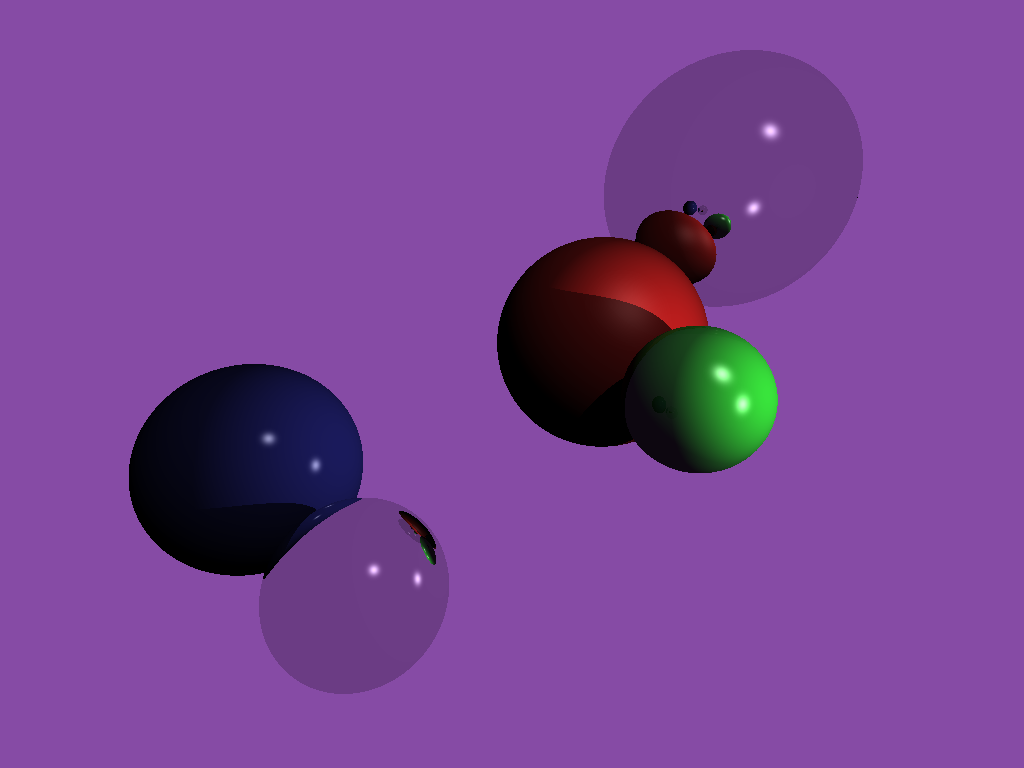
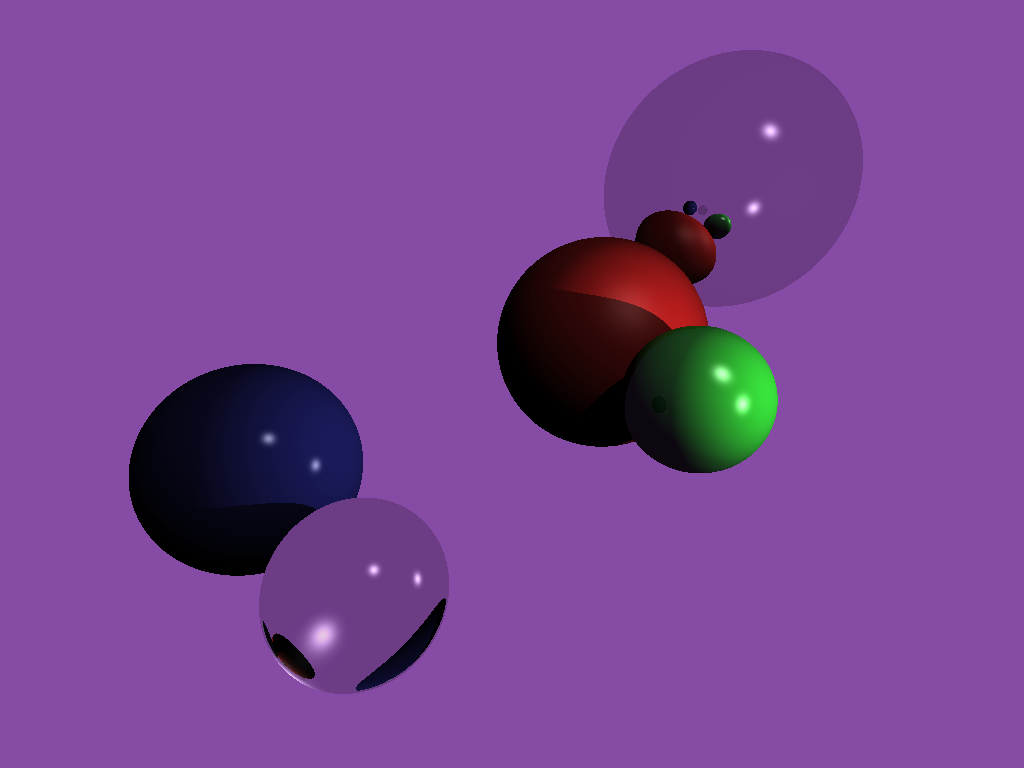
Implement refraction

diff --git a/src/lib.rs b/src/lib.rs
@@ -3,7 +3,7 @@ mod ray_tracing;
 mod scene;
 mod vector_math;
 
-use scene::Scene;
+use scene::{Scene, Sphere};
 
 use crate::buffer::{Buffer, Point, Rgb};
 use crate::vector_math::Vec3;
@@ -33,13 +33,25 @@ pub fn draw(buffer: &mut Buffer) {
 
             buffer.set(
                 &Point(x, y),
-                &cast_ray(&camera_position, &camera_to_pixel_direction, &scene, 0),
+                &cast_ray(
+                    &camera_position,
+                    &camera_to_pixel_direction,
+                    &scene,
+                    0,
+                    None,
+                ),
             );
         }
     }
 }
 
-fn cast_ray(ray_origin: &Vec3, ray_direction: &Vec3, scene: &Scene, bounce_count: u8) -> Rgb {
+fn cast_ray(
+    ray_origin: &Vec3,
+    ray_direction: &Vec3,
+    scene: &Scene,
+    bounce_count: u8,
+    current_medium: Option<&Sphere>,
+) -> Rgb {
     if let Some((sphere, distance)) =
         ray_tracing::scene_intersect(ray_origin, ray_direction, &scene.spheres)
     {
@@ -66,32 +78,75 @@ fn cast_ray(ray_origin: &Vec3, ray_direction: &Vec3, scene: &Scene, bounce_count
 
             diffuse_intensity += (light_direction * normal).max(0.0) * light.intensity;
 
-            specular_intensity += (light_direction.reflection(&normal)
-                * -ray_direction.normalize())
-            .max(0.0)
-            .powf(sphere.material.shininess);
+            specular_intensity += (light_direction.reflection(&normal) * -ray_direction)
+                .max(0.0)
+                .powf(sphere.material.shininess);
         }
 
         let mut reflection_component = Rgb::new(0, 0, 0);
+        let mut refraction_component = Rgb::new(0, 0, 0);
 
-        if bounce_count < BOUNCE_LIMIT && sphere.material.albedo.2 > 0.0 {
-            let camera_ray_bounce = -ray_direction.reflection(&normal);
+        if bounce_count < BOUNCE_LIMIT {
+            if sphere.material.albedo.2 > 0.0 {
+                let reflection_direction = -ray_direction.reflection(&normal);
 
-            let point_outside_sphere =
-                *ray_origin + (ray_direction.normalize() * (distance - ROUNDING_COMPENSATION));
+                let rounding_error_compensation = if reflection_direction * normal > 0.0 {
+                    -ROUNDING_COMPENSATION
+                } else {
+                    ROUNDING_COMPENSATION
+                };
 
-            reflection_component = cast_ray(
-                &point_outside_sphere,
-                &camera_ray_bounce,
-                scene,
-                bounce_count + 1,
-            ) * sphere.material.albedo.2;
+                let reflection_origin =
+                    *ray_origin + (ray_direction * (distance + rounding_error_compensation));
+                reflection_component = cast_ray(
+                    &reflection_origin,
+                    &reflection_direction,
+                    scene,
+                    bounce_count + 1,
+                    None,
+                ) * sphere.material.albedo.2;
+            }
+            if sphere.material.albedo.3 > 0.0 {
+                let next_refraction_medium = match current_medium {
+                    None => Some(sphere),
+                    Some(_) => None,
+                };
+
+                let normal = normal * current_medium.map_or(1.0, |_| -1.0);
+
+                let get_reflective_index_from_sphere =
+                    |sphere: &Sphere| sphere.material.refractive_index;
+
+                let current_index = current_medium.map_or(1.0, get_reflective_index_from_sphere);
+                let next_index =
+                    next_refraction_medium.map_or(1.0, get_reflective_index_from_sphere);
+
+                let refraction_direciton =
+                    ray_direction.refraction(&normal, current_index, next_index);
+
+                let rounding_error_compensation = if refraction_direciton * normal > 0.0 {
+                    -ROUNDING_COMPENSATION
+                } else {
+                    ROUNDING_COMPENSATION
+                };
+
+                let refraction_origin =
+                    *ray_origin + (ray_direction * (distance + rounding_error_compensation));
+                refraction_component = cast_ray(
+                    &refraction_origin,
+                    &refraction_direciton,
+                    scene,
+                    bounce_count + 1,
+                    next_refraction_medium,
+                ) * sphere.material.albedo.3;
+            }
         }
 
         return sphere.material.diffuse_color.clone()
             * (diffuse_intensity * (sphere.material.albedo.0)).min(1.0)
             + SPEC_BASE_COLOR.clone() * (specular_intensity * sphere.material.albedo.1)
-            + reflection_component;
+            + reflection_component
+            + refraction_component;
     }
     BACKGROUND_COLOR
 }
@@ -102,7 +157,7 @@ const SPEC_BASE_COLOR: Rgb = Rgb::new(255, 255, 255);
 
 const BOUNCE_LIMIT: u8 = 4;
 
-const ROUNDING_COMPENSATION: f32 = 0.001;
+const ROUNDING_COMPENSATION: f32 = 0.01;
 
 fn set_up_3d_world(camera_position: Vec3, _looking_direction: Vec3) -> (Vec3, Vec3, Vec3) {
     // TODO: we should take into account looking direction to calculate virtual screen placement

diff --git a/src/scene.rs b/src/scene.rs
@@ -27,7 +27,7 @@ pub fn create_scene() -> Scene {
             Sphere {
                 origin: Vec3::new(-1.2, -0.6, -4.0),
                 radius: 0.7,
-                material: &MIRROR,
+                material: &GLASS,
             },
         ],
         lights: vec![
@@ -59,7 +59,8 @@ pub struct Sphere {
 pub struct Material {
     pub diffuse_color: Rgb,
     pub shininess: f32,
-    pub albedo: (f32, f32, f32), // diffuse, specular, reflection
+    pub albedo: (f32, f32, f32, f32), // diffuse, specular, reflection
+    pub refractive_index: f32,
 }
 pub struct Light {
     pub origin: Vec3,
@@ -69,23 +70,34 @@ pub struct Light {
 static GLOSSY_BLUE: Material = Material {
     diffuse_color: Rgb::new(50, 50, 170),
     shininess: 200.0,
-    albedo: (0.5, 0.5, 0.0),
+    albedo: (0.5, 0.5, 0.0, 0.0),
+    refractive_index: 0.0,
 };
 
 static RUBBERY_RED: Material = Material {
     diffuse_color: Rgb::new(190, 30, 30),
     shininess: 10.0,
-    albedo: (0.9, 0.1, 0.0),
+    albedo: (0.9, 0.1, 0.0, 0.0),
+    refractive_index: 0.0,
 };
 
 static GLOSSY_GREEN: Material = Material {
     diffuse_color: Rgb::new(50, 250, 50),
     shininess: 50.0,
-    albedo: (0.8, 0.6, 0.1),
+    albedo: (0.8, 0.6, 0.1, 0.0),
+    refractive_index: 0.0,
 };
 
 static MIRROR: Material = Material {
     diffuse_color: Rgb::new(10, 10, 10),
     shininess: 200.0,
-    albedo: (0.2, 0.6, 0.8),
+    albedo: (0.2, 0.6, 0.8, 0.0),
+    refractive_index: 0.0,
+};
+
+static GLASS: Material = Material {
+    diffuse_color: Rgb::new(10, 10, 10),
+    shininess: 200.0,
+    albedo: (0.0, 0.6, 0.0, 0.9),
+    refractive_index: 1.8,
 };

diff --git a/src/vector_math.rs b/src/vector_math.rs
@@ -70,9 +70,22 @@ impl Vec3 {
     }
 
     pub fn reflection(self, normal: &Vec3) -> Vec3 {
-        let normal_copy = normal.clone().normalize();
+        let normal = normal.clone().normalize();
         let normalized_self = self.normalize();
-        normal_copy * (2.0 * (normalized_self * normal_copy)) - normalized_self
+        normal * (2.0 * (normalized_self * normal)) - normalized_self
+    }
+
+    pub fn refraction(
+        self,
+        normal: &Vec3,
+        current_refraction_index: f32,
+        next_refraction_index: f32,
+    ) -> Vec3 {
+        let normal = normal.normalize();
+        let normalized_self = self.normalize();
+        let r = current_refraction_index / next_refraction_index;
+        let c = -normal * normalized_self;
+        (self * r + normal * (r * c - f32::sqrt(1.0 - r.powi(2) * (1.0 - c.powi(2))))).normalize()
     }
 }
 
@@ -126,5 +139,22 @@ mod test {
     fn reflection() {
         let reflected_vector = Vec3::new(1.0, 1.0, 0.0).reflection(&Vec3::new(0.0, 1.0, 0.0));
         assert_eq!(reflected_vector, Vec3::new(-1.0, 1.0, 0.0).normalize());
+    }
+
+    #[test]
+    fn refraction() {
+        let refracted_vector =
+            Vec3::new(1.0, -1.0, 0.0).refraction(&Vec3::new(0.0, 1.0, 0.0), 1.0, 1.1);
+        let [x, y, z] = refracted_vector.values;
+        assert_eq!(
+            Vec3 {
+                values: [cap_float(x), cap_float(y), cap_float(z)]
+            },
+            Vec3::new(0.7, -0.8, 0.0)
+        );
+    }
+
+    fn cap_float(value: f32) -> f32 {
+        (value * 10.0).round() / 10.0
     }
 }

diff --git a/src/ray_tracing.rs b/src/ray_tracing.rs
@@ -133,12 +133,14 @@ mod tests {
     const RED: Material = Material {
         diffuse_color: Rgb::new(255, 0, 0),
         shininess: 0.0,
-        albedo: (0.5, 0.5, 0.0),
+        albedo: (0.5, 0.5, 0.0, 0.0),
+        refractive_index: 0.0,
     };
 
     const BLACK: Material = Material {
         diffuse_color: Rgb::new(0, 0, 0),
         shininess: 0.0,
-        albedo: (0.5, 0.5, 0.0),
+        albedo: (0.5, 0.5, 0.0, 0.0),
+        refractive_index: 0.0,
     };
 }
